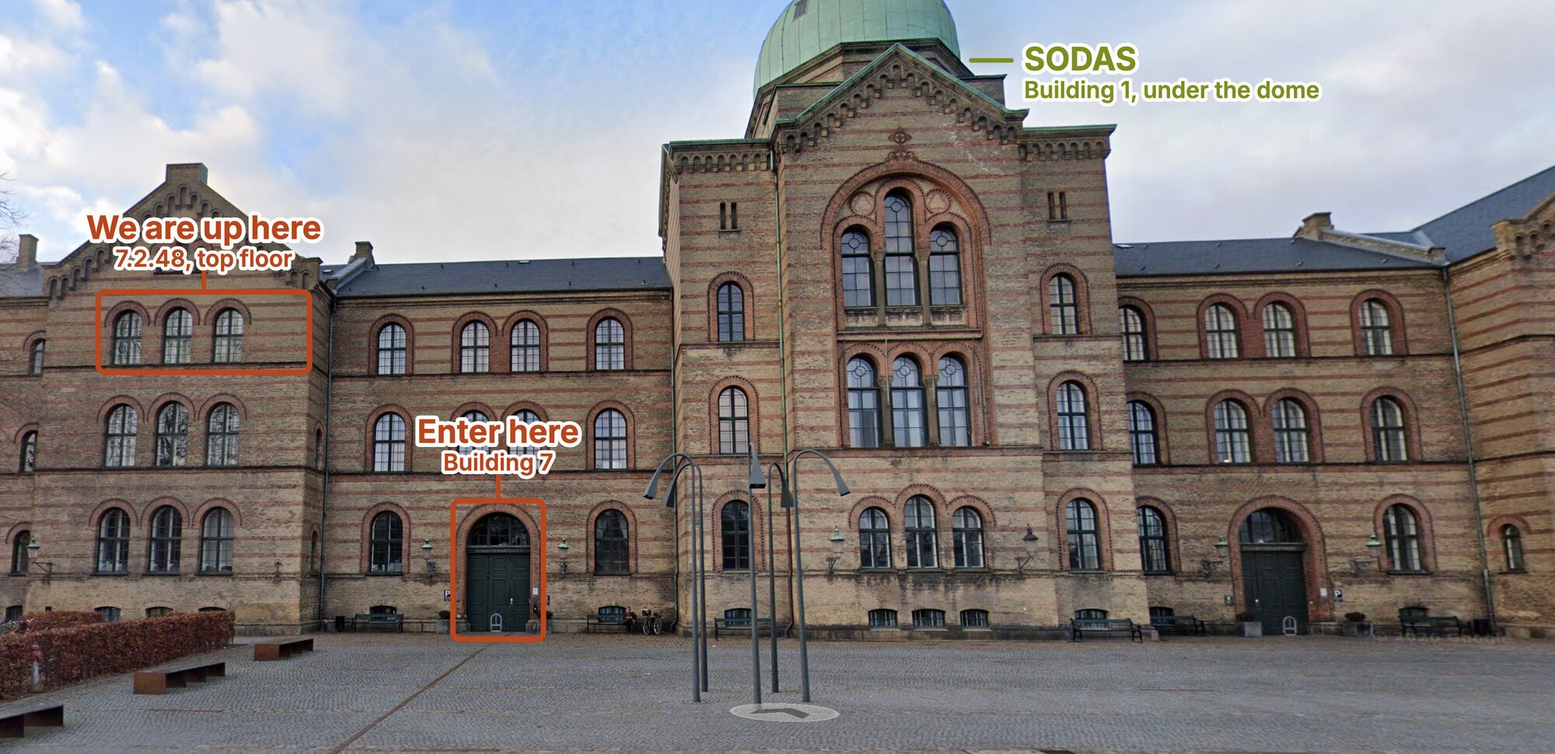
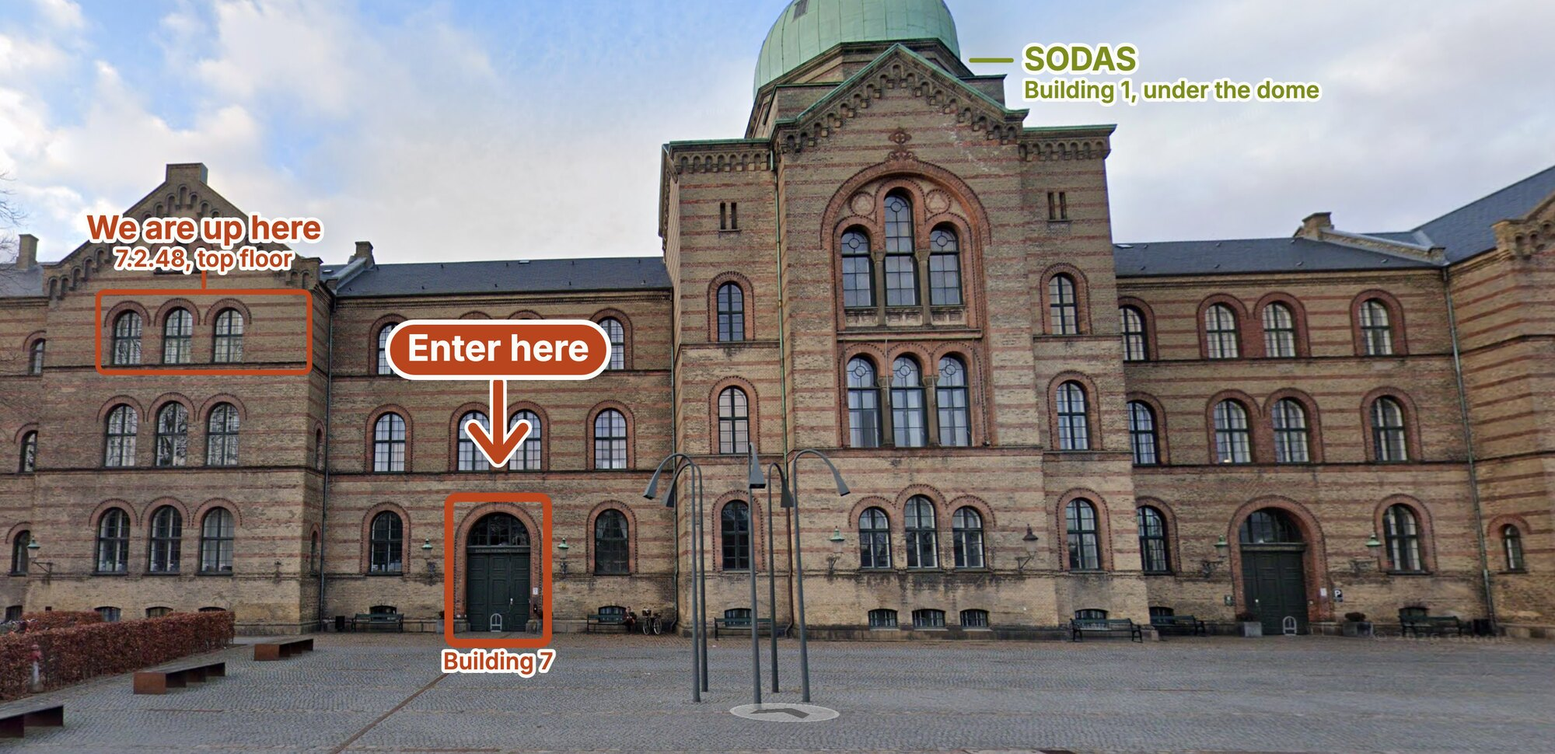
Directions: bolder Enter-here on the façade, KU walk ends at the door marker
Claude-Session: https://claude.ai/code/session_01Le2XxWqqiKb2BCk8oKe2QM

Changed region(s): [[0.248, 0.4021, 0.403, 0.8969]]

diff --git a/branding/build-directions-map.py b/branding/build-directions-map.py
@@ -362,8 +362,8 @@ def build_ku():
     norreport = frame.xy(55.68385, 12.57276)   # the S-train platforms under Nørre Voldgade; the metro is next door
     corner = frame.xy(55.68408, 12.57160)      # street level, Nørre Voldgade at Frederiksborggade
     gate = frame.xy(55.68693, 12.57100)        # the main gate, Øster Farimagsgade 5, straight out from the dome
-    door = frame.xy(55.68711, 12.57007)        # door in the Building 7 façade, facing the front garden
     dome = frame.xy(55.68722, 12.57052)        # Building 1, under the dome
+    door = dome                                # the Building 7 door is the one just left of the dome: same spot at this scale
     turn = frame.xy(55.68496, 12.56839)        # Frederiksborggade meets Nørre Farimagsgade
     goth = frame.xy(55.68613, 12.56976)        # Gothersgade crossing, where the street becomes Øster Farimagsgade
     # the footway graph is routed only as far as Gothersgade: beyond it OSM's pavement is disconnected and
@@ -371,7 +371,7 @@ def build_ku():
     # along Øster Farimagsgade to the gate are drawn by hand, as is the path through the front garden.
     walk = [norreport] + walk_route(ways, nodes, frame, corner, turn)
     walk += walk_route(ways, nodes, frame, turn, goth)[1:]
-    walk += [(gate[0], walk[-1][1]), gate, (gate[0] + 1, dome[1] - 10), (door[0] + 6, door[1] - 6), door]
+    walk += [(gate[0], walk[-1][1]), gate, (gate[0] + 1, dome[1] - 10), door]
     print(f"  walk {length(walk):.0f} m; nørreport {norreport[0]:.0f},{norreport[1]:.0f} door {door[0]:.0f},{door[1]:.0f} dome {dome[0]:.0f},{dome[1]:.0f}", file=sys.stderr)
     css = next((P(rdp([frame.xy(*p) for p in ll], 1.0)) + "Z" for t, _, ll in ways
                 if t.get("amenity") == "university" and "Sundhed og Samfund" in t.get("name", "")), None)
@@ -397,10 +397,9 @@ def build_ku():
     gx, gy = frame.xy(55.6868, 12.5735)   # Botanical Garden label
     body += [f'<circle class="stn" cx="{norreport[0]:.0f}" cy="{-norreport[1]:.0f}" r="9"/>',
              f'<text class="lbl-stop halo" x="{norreport[0]+16:.0f}" y="{-norreport[1]+7:.0f}">Nørreport <tspan class="sub">S-train and metro</tspan></text>',
-             f'<circle class="pin" cx="{door[0]:.0f}" cy="{-door[1]:.0f}" r="7"/>',
-             f'<text class="lbl-here halo" x="{door[0]-18:.0f}" y="{-door[1]-22:.0f}" text-anchor="end">Building 7 door</text>',
-             f'<text class="lbl-muted halo" x="{door[0]-18:.0f}" y="{-door[1]-2:.0f}" text-anchor="end">then up to 7.2.48</text>',
-             f'<circle class="stop" cx="{dome[0]:.0f}" cy="{-dome[1]:.0f}" r="6"/>',
+             f'<circle class="pin" cx="{door[0]:.0f}" cy="{-door[1]:.0f}" r="8"/>',
+             f'<text class="lbl-here halo" x="{door[0]-18:.0f}" y="{-door[1]-16:.0f}" text-anchor="end">Enter here</text>',
+             f'<text class="lbl-muted halo" x="{door[0]-18:.0f}" y="{-door[1]+4:.0f}" text-anchor="end">Building 7 door, then up to 7.2.48</text>',
              f'<text class="lbl-muted halo" x="{cv.X1-10}" y="{-dome[1]-56:.0f}" text-anchor="end">the dome: Building 1, SODAS</text>',
              f'<text class="lbl-area halo" x="{gx:.0f}" y="{-gy:.0f}" text-anchor="middle">Botanical Garden</text>',
              f'<text class="lbl-area halo" x="{dome[0]-130:.0f}" y="{-dome[1]-100:.0f}" text-anchor="middle">CSS (Kommunehospitalet)</text>',

diff --git a/src/content/pages/20140910_directions.md b/src/content/pages/20140910_directions.md
@@ -205,7 +205,7 @@ Nørreport is the nearest station, about ten minutes on foot. Leave the station 
 <g class="roads"><path class="rd rd-path" d="M2,225 L12,202 L25,180 L29,165 L27,144 L11,111 L16,96 L24,87 L34,83 L49,81 L72,89 L87,101 M-148,265 L-153,236 M215,38 L142,-8 L139,-15 L139,-25 L146,-29 L152,-30 L228,18 M189,-1 L192,5 L190,11 L185,15 L177,13 L173,6 L176,-0 L183,-3 L189,-1 M163,-58 L161,-49 L164,-37 L197,-17 L231,4 L232,1 L243,1 L249,-5 L257,0 M25,180 L14,175 L6,165 M-247,-258 L-253,-240 L-306,-225 M97,96 L95,89 L82,75 L78,60 L82,49 L89,44 L94,33 L97,27 L96,19 M39,-28 L64,-25 L92,-16 L105,-8 L109,6 M62,68 L70,48 L75,23 L92,-16 L122,-43 L138,-53 L164,-64 M-256,98 L-217,91 L-207,98 L-179,93 M92,49 L98,58 L104,54 L107,42 L94,33 M107,95 L111,86 L130,67 L149,31 L152,22 L153,-1 M82,75 L102,75 L118,61 L140,47 M162,5 L174,-15 M152,22 L173,12 M152,-30 L157,-62 M24,87 L41,98 L57,99 L81,109 M90,66 L94,68 L104,65 L111,57 L113,43 M17,124 L34,111 L43,108 L53,112 L57,110 L69,85 L82,75 M-22,37 L-16,35 L-2,39 L4,43 L11,56 L14,64 L11,78 L8,85 L-0,91 L-6,91 L-19,85 L-29,71 L-32,59 L-31,51 L-22,37 M76,-22 L74,-54 L62,-54 M-31,64 L8,49 M113,4 L123,15 L123,19 L120,22 M107,42 L118,43 L126,39 L134,34 L153,13 M121,11 L127,18 L132,36 M93,35 L88,34 L83,40 L82,42 L86,46 M-189,132 L-176,130 L-169,168 L-164,167 M-54,6 L-68,-33 L-68,-36 L-54,-41 L-49,-48 L-42,-50 L-39,-49 L-32,-43 M26,-57 L-32,-52 L-36,-47 M-261,133 L-211,123 M-211,123 L-176,116 M-183,71 L-219,78 M-219,78 L-269,87 M-158,209 L-162,189 M-16,35 L1,24 L39,15 L52,16 L79,24 L96,19 L109,6 L120,1 L133,-2 L142,-8 M-2,91 L-22,37 M-133,235 L-122,235 L-116,233 L-122,231 L-133,233 M-157,205 L-153,236 M-153,236 L-160,205 M-197,244 L-170,245 M114,-58 L118,-59 L132,-49 M113,-67 L116,-67 L117,-51 L99,-49 L101,-25 M-15,-71 L-12,-35 M-83,-6 L-59,-14 M-240,273 L-284,270 M-216,55 L-204,122 L-206,135 M6,165 L-11,123 M-6,135 L19,127 M-247,142 L-252,118 M-255,96 L-260,73 M-255,96 L-252,118 M-219,137 L-223,113 M-227,91 L-231,68 M-227,91 L-223,113 M-252,116 L-213,109 L-207,98 M-307,-244 L-298,-239 L-259,-248 M-300,-222 L-301,-243 M-276,109 L-254,107 M-307,-6 L-265,220 M-280,240 L-295,263 M-289,287 L-273,272 M-292,-10 L-251,218 M-297,-226 L-253,-239 M-256,-246 L-304,-236 M-230,-283 L-200,-290 M-232,231 L-232,241 L-219,264 L-218,275 M-297,-102 L-297,-226 M-296,-35 L-297,-94 M288,193 L10,212 L8,211 L4,208 L-89,-46 L-88,-48 L-35,-58 L193,-80 L207,-89 L254,-94 M-226,-256 L-189,-265 M-180,-270 L-158,-282 M-88,-47 L-68,-33 M120,22 L121,27 L112,39 M110,-29 L117,-23 L123,-7 M110,-29 L106,-21 L108,-8 L116,-3 L123,-7 M123,-7 L116,-12 L114,-16 L121,-25 L124,-33 M110,-29 L128,-35 L134,-33 L139,-35 L140,-42 L129,-48 L128,-35 M152,-60 L149,-46 L140,-42 M130,-20 L129,-10 L142,-8 M-25,40 L-6,91 M-27,42 L-9,90 M-29,46 L-13,88 M-31,51 L-17,86 M-18,36 L2,90 M-15,35 L4,88 M-12,36 L7,86 M-9,36 L9,83 M-4,38 L11,79 M12,75 L-0,40 M108,31 L105,27 L109,6 M45,-137 L-31,-129 M-12,-143 L-14,-167 M36,-160 L33,-167 L27,-170 L-14,-167 M36,-160 L34,-151 L27,-147 L-12,-143 M19,-186 L41,-186 L46,-179 L48,-165 M19,-186 L0,-184 L-9,-179 L-33,-176 L-35,-163 M49,-157 L50,-139 L45,-137 M45,-137 L43,-160 M89,-64 L113,-67 M-32,-212 L-45,-209 L-53,-216 L-54,-254 M-44,-194 L-42,-173 M-71,-276 L-74,-282 L-65,-288 L-55,-286 L-53,-283 L-55,-278 M34,-286 L6,-282 L-2,-283 L-5,-281 L-16,-282 L-27,-279 L-38,-280 L-61,-275 L-71,-276 M18,-211 L-19,-207 M7,-243 L9,-215 M10,-216 L-32,-211 M184,18 L189,39 L187,51 L176,71 L166,82 L145,92 L97,96 L91,98 M165,173 L139,173 L104,166 L99,158 L73,148 M210,49 L222,45 L239,34 L256,31 L264,34 L268,39 L269,50 L265,56 L248,68 L244,73 L227,80 L220,89 L206,122 L188,156 L165,173 L144,185 L110,193 L75,193 M205,4 L193,24 M286,106 L274,103 L244,127 L216,165 L208,171 L185,176 L168,172 M208,56 L188,78 L185,93 L179,105 L147,127 L136,127 L133,123 L130,104 L124,94 M234,287 L229,288 L221,262 L248,268 L251,304 L247,305 L248,317 L253,317 L254,336 M239,337 L254,336 M47,185 L55,196 L67,197 L75,193 M263,335 L239,337 L234,287 L250,286 M266,269 L268,222 L265,205 M246,79 L260,103 L260,109 M260,109 L256,131 L257,137 L278,159 M251,66 L274,67 M19,228 L55,239 L220,220 L267,210 M-12,226 L-5,245 L-10,258 M261,142 L263,133 L267,128 L271,125 L277,127 M235,279 L235,274 L240,274 L240,280 L235,279 M8,243 L27,239 L26,234 L21,235 L19,228 M250,286 L252,284 L272,284 L277,327 L269,334 L263,335 M266,265 L231,258 M282,94 L255,94 M75,193 L25,180 M244,73 L264,71 L278,75 M287,17 L256,4 L241,9 L229,16 M229,16 L215,38 L208,56 M91,98 L87,101 L78,116 L74,130 L72,162 L68,170 L55,187 M27,239 L31,248 L268,220 M169,-188 L173,-193 L189,-191 M187,-158 L176,-157 L175,-159 L180,-170 L179,-178 L173,-186 L165,-190 L151,-187 L145,-179 L143,-170 M154,-171 L157,-165 L162,-164 L168,-166 L170,-172 L167,-177 L162,-180 L156,-177 L154,-171 M154,-171 L129,-169 M204,-204 L196,-191 L189,-191 L185,-174 L188,-148 M181,-277 L186,-231 L192,-226 L224,-229 M175,-200 L134,-196 M220,-219 L220,-212 L234,-213 M220,-212 L207,-211 L204,-204 M216,-269 L220,-228 M223,-204 L226,-169 M-2,-283 L-7,-289 L22,-288 L19,-284 M-38,-280 L-42,-285 L-39,-289 L-16,-289 L-14,-284 L-16,-282 M213,-250 L194,-248 L194,-253 L184,-252 M153,-256 L156,-226"/><path class="rd rd-minor" d="M-264,233 L-282,266 M-187,49 L-70,28 M-269,158 L-246,151 L-177,138 M-304,-96 L-306,-225 M-187,49 L-279,67 L-286,66 M-172,228 L-170,245 L-152,249 L-138,237 L-139,230 M-86,-286 L-88,-138 M-304,-96 L-216,-113 M-287,60 L-301,-17 M-304,-96 L-303,-26 M-88,-138 L-129,-131 M-287,60 L-269,163 M-39,114 L-165,136 M210,-92 L207,-120 L202,-124 L113,-115 M-228,276 L-38,261 L13,254 M-286,66 L-298,68 M-284,270 L-309,310 M117,-83 L113,-115 L83,-110 L75,-112 M75,-112 L-19,-104 L-24,-97 L-24,-70 M-289,278 L-237,298 M-249,327 L-237,298 M-87,-251 L36,-262 M-88,-138 L-65,-133 L-32,-136 M-303,272 L-284,270 M-237,298 L-228,276 M75,-112 L78,-79 M75,-112 L75,-118 M75,-118 L73,-132 M109,-121 L113,-115 M108,-135 L109,-121 M73,-132 L68,-194 M-33,131 L-8,122 M-282,266 L-297,267 M-49,-134 L-52,-161 L-41,-163 L-35,-163 L-32,-136 M23,-74 L26,-54 L21,-48 L-32,-43 M-142,316 L-150,270 M-170,154 L-166,153 L-166,151 L-170,152 L-170,154 M-168,167 L-164,166 L-164,164 L-168,165 L-168,167 M-228,276 L-240,273 L-243,269 L-246,239 M-152,249 L-150,270 M-177,138 L-165,136 M-216,-113 L-129,-131 M-307,-95 L-304,-96 M-306,-225 L-307,-244 M-269,163 L-259,220 L-264,233 M-305,-188 L-303,-188 M-303,-188 L-295,-188 M-290,31 L-283,30 M-293,32 L-290,31 M-305,-213 L-303,-213 M-303,-213 L-296,-213 M-282,161 L-269,158 M-308,-236 L-308,-223 M-304,-228 L-304,-237 L-255,-247 L-253,-245 L-253,-242 L-287,-231 L-288,-237 L-291,-236 L-289,-231 L-304,-228 M-282,266 L-284,270 M-301,-17 L-303,-26 M-209,-290 L-209,-286 L-228,-282 L-234,-281 L-236,-284 M72,-144 L106,-148 M-32,-212 L-36,-255 M39,-245 L14,-242 L18,-211 M-32,-136 L-30,-118 M-30,-118 L-71,-114 M-49,-98 L-48,-87 L-65,-85 M-30,-118 L-30,-110 L-36,-102 L-49,-98 L-63,-99 M-38,261 L-30,332 M-61,336 L39,325 M260,176 L267,179 L271,176 L273,172 L271,167 L267,164 L261,166 L259,170 L260,176 M71,315 L51,324 M71,315 L188,285 L193,264 L61,279 L72,308 L71,315 M13,328 L14,333 M260,176 L186,198 L186,210 M51,324 L39,325 M268,-97 L249,-284 M118,-287 L120,-251 M120,-251 L39,-245 M120,-272 L249,-284 M170,-276 L174,-228 L123,-223 L120,-251 M60,-245 L62,-220 L66,-214 L100,-218 L100,-212 M102,-197 L108,-135 M100,-212 L102,-197 M67,-209 L66,-214 M68,-194 L67,-209 M100,-218 L102,-223 L99,-249 M77,-267 L77,-264 M77,-264 L79,-251 M79,-251 L79,-247 M77,-267 L55,-265 L53,-285 M257,-209 L204,-204 M265,-123 L255,-122 L252,-118 L243,-116 M36,-262 L34,-287 M36,-262 L39,-245 M-286,159 L-273,157 L-289,68 L-292,69 M-159,210 L-158,208 L-159,210 M-162,206 L-160,214 L-155,213 L-155,204 L-162,206 M-162,198 L-159,197 L-161,186 L-164,186 L-162,198 M-166,181 L-160,180 L-162,169 L-168,170 L-166,181 M-167,187 L-164,207 L-154,206 L-161,166 L-171,168 L-167,187 M-138,300 L-142,300 L-144,289 L-139,288 L-138,300 M-153,277 L-156,274 L-137,273 L-140,276 L-133,337 M-270,-238 L-271,-241 L-269,-242 L-268,-238 L-270,-238 M-281,-235 L-281,-239 L-281,-235 M-291,-230 L-291,-237 L-291,-230 M-304,-228 L-304,-237 L-255,-247 L-253,-245 L-253,-242 L-287,-231 L-288,-237 L-291,-236 L-289,-231 L-304,-228"/><path class="rd rd-major" d="M-180,-270 L-165,-230 M-173,-290 L-175,-289 M-232,-224 L-237,-261 M-249,-269 L-247,-258 M-239,-271 L-241,-281 M-253,-285 L-249,-269 M-294,-247 L-247,-258 M-176,109 L-177,138 L-161,228 M-216,-113 L-210,-76 M-159,-50 L-200,-43 M-130,229 L-150,229 M-150,229 L-165,136 M268,-97 L-53,-67 M-129,-131 L-103,-62 M-237,-261 L-239,-271 M-249,-269 L-300,-254 M-237,-261 L-182,-276 M-206,-32 L-196,0 M-100,-54 L2,225 M-208,-42 L-303,-26 M-246,-251 L-233,-208 M-186,-286 L-239,-271 M-247,-258 L-237,-261 M-187,49 L-176,109 M-264,233 L-161,228 M-264,233 L-276,229 M-161,228 L-150,229 M-165,-230 L-129,-131 M-165,136 L-176,109 M-233,-208 L-216,-113 M-28,226 L-87,228 M-87,228 L-130,229 M-182,-276 L-186,-286 M-269,-21 L-206,-32 M-53,-67 L-90,-65 L-103,-62 M-100,-54 L-53,-67 M-140,-46 L-100,-54 M-208,-42 L-206,-32 M-182,-276 L-158,-282 M-247,-258 L-246,-251 M-304,240 L-264,233 M-198,-34 L-140,-46 M-103,-62 L-100,-54 M-103,-62 L-159,-50 M-301,-17 L-269,-21 M-200,-43 L-208,-42 M-200,-43 L-210,-76 M-198,-34 L-200,-43 M-206,-32 L-198,-34 M-196,0 L-195,-20 L-198,-34 M-196,0 L-187,49 M-210,-76 L-211,-55 L-208,-42 M-182,-276 L-180,-270 M-233,-208 L-232,-224 M-239,-271 L-249,-269 M-175,-289 L-186,-286 M19,228 L46,222 L93,222 M265,205 L18,218 L11,219 L2,225 M13,254 L39,325 M2,225 L13,254 M93,222 L267,210 M2,225 L19,228 M2,225 L-28,226"/><path class="rd rd-mw" d=""/></g>
 <path class="rail" d=""/>
 <path class="bld" fill-rule="evenodd" d="M-3,135 L7,163 L26,156 L16,129 L-3,135Z M-9,-24 L-9,-22 L34,-26 L33,-40 L-10,-36 L-9,-24Z M-117,-125 L-109,-105 L-98,-109 L-104,-125 L-99,-126 L-100,-128 L-117,-125Z M-83,-131 L-94,-129 L-92,-123 L-94,-123 L-93,-122 L-92,-122 L-91,-117 L-101,-116 L-98,-109 L-97,-102 L-98,-101 L-97,-101 L-95,-93 L-97,-92 L-95,-92 L-94,-85 L-96,-83 L-94,-78 L-72,-82 L-73,-83 L-74,-83 L-75,-87 L-74,-88 L-75,-88 L-76,-96 L-75,-96 L-77,-97 L-78,-104 L-77,-104 L-78,-105 L-79,-113 L-78,-113 L-79,-113 L-80,-116 L-79,-117 L-80,-117 L-81,-124 L-80,-124 L-80,-126 L-82,-126 L-83,-131Z M-67,-213 L-56,-213 L-56,-243 L-67,-243 L-67,-213Z M-44,-81 L-25,-83 L-26,-95 L-45,-93 L-44,-81Z M153,-27 L144,-12 L156,-5 L165,-19 L153,-27Z M-198,61 L-207,62 L-205,72 L-196,70 L-198,61Z M-118,282 L-120,272 L-84,269 L-83,283 L-89,283 L-89,280 L-118,282Z M-136,303 L-138,278 L-135,274 L-120,272 L-118,284 L-122,284 L-124,286 L-126,285 L-128,287 L-127,296 L-126,298 L-117,297 L-118,295 L-117,295 L-116,301 L-136,303Z M-313,-50 L-313,-71 L-323,-70 L-322,-50 L-313,-50Z M-313,-71 L-313,-84 L-315,-85 L-344,-79 L-343,-70 L-326,-74 L-326,-74 L-323,-75 L-323,-70 L-313,-71Z M-330,-27 L-315,-31 L-313,-33 L-313,-50 L-322,-50 L-322,-39 L-323,-38 L-332,-36 L-330,-27Z M-348,-181 L-349,-185 L-332,-189 L-331,-188 L-329,-188 L-328,-187 L-326,-188 L-326,-190 L-328,-190 L-329,-192 L-328,-194 L-326,-194 L-326,-218 L-328,-216 L-330,-217 L-329,-220 L-339,-216 L-343,-227 L-325,-233 L-314,-226 L-314,-104 L-316,-101 L-333,-98 L-338,-121 L-332,-121 L-331,-111 L-327,-111 L-325,-113 L-325,-126 L-327,-127 L-327,-129 L-325,-130 L-325,-132 L-337,-133 L-337,-143 L-326,-143 L-325,-154 L-341,-153 L-342,-163 L-326,-164 L-325,-177 L-347,-174 L-348,-181Z M-350,4 L-330,-1 L-327,9 L-334,11 L-332,16 L-341,20 L-342,13 L-343,13 L-347,15 L-350,4Z M-320,16 L-305,13 L-301,36 L-316,39 L-317,34 L-312,33 L-312,31 L-314,31 L-314,29 L-312,28 L-313,24 L-315,24 L-315,23 L-314,22 L-314,19 L-319,20 L-320,16Z M-330,-1 L-310,-7 L-308,-5 L-305,13 L-314,15 L-315,4 L-316,3 L-318,4 L-328,7 L-330,-1Z M-301,36 L-297,59 L-298,61 L-324,66 L-328,44 L-322,43 L-321,54 L-318,53 L-309,52 L-311,38 L-301,36Z M-221,66 L-217,90 L-267,99 L-272,75 L-221,66Z M-259,144 L-209,135 L-213,111 L-263,120 L-259,144Z M-204,110 L-202,119 L-193,118 L-195,108 L-204,110Z M-190,124 L-193,125 L-192,129 L-190,129 L-190,124Z M-150,-162 L-160,-190 L-170,-186 L-167,-177 L-177,-173 L-175,-167 L-171,-168 L-170,-166 L-164,-169 L-160,-158 L-150,-162Z M-219,-198 L-215,-175 L-187,-181 L-188,-186 L-203,-184 L-204,-182 L-205,-183 L-206,-187 L-204,-188 L-201,-188 L-202,-190 L-204,-190 L-206,-190 L-207,-194 L-206,-196 L-205,-194 L-192,-197 L-192,-198 L-189,-199 L-190,-202 L-219,-198Z M-164,-132 L-143,-136 L-142,-138 L-150,-162 L-160,-158 L-154,-145 L-154,-143 L-156,-143 L-157,-144 L-165,-142 L-164,-132Z M-211,-154 L-206,-126 L-203,-124 L-179,-129 L-183,-148 L-188,-147 L-187,-140 L-185,-139 L-186,-138 L-195,-136 L-196,-135 L-197,-136 L-200,-152 L-199,-153 L-197,-152 L-188,-153 L-189,-159 L-211,-154Z M-199,-215 L-209,-212 L-210,-214 L-221,-211 L-227,-243 L-183,-254 L-173,-225 L-194,-219 L-195,-224 L-186,-226 L-190,-238 L-192,-240 L-201,-238 L-199,-233 L-200,-232 L-209,-231 L-210,-235 L-213,-234 L-214,-233 L-211,-219 L-202,-222 L-199,-215Z M-221,-211 L-218,-198 L-190,-202 L-192,-208 L-207,-206 L-209,-207 L-208,-210 L-210,-211 L-210,-214 L-221,-211Z M-160,-190 L-166,-206 L-176,-203 L-174,-197 L-176,-196 L-175,-191 L-172,-191 L-170,-186 L-160,-190Z M-166,-206 L-173,-225 L-184,-222 L-180,-208 L-178,-209 L-176,-203 L-166,-206Z M-179,-129 L-164,-132 L-165,-140 L-170,-141 L-170,-139 L-176,-138 L-178,-147 L-178,-148 L-167,-150 L-168,-158 L-173,-157 L-178,-158 L-181,-155 L-184,-155 L-179,-129Z M-121,-140 L-98,-145 L-97,-147 L-97,-163 L-105,-163 L-105,-154 L-106,-153 L-116,-151 L-120,-160 L-128,-156 L-123,-142 L-121,-140Z M-157,-234 L-167,-263 L-161,-274 L-124,-280 L-120,-240 L-127,-239 L-128,-268 L-129,-268 L-130,-266 L-133,-265 L-134,-267 L-152,-264 L-152,-262 L-154,-260 L-146,-238 L-157,-234Z M-124,-280 L-97,-284 L-96,-281 L-96,-264 L-107,-264 L-107,-271 L-108,-272 L-117,-271 L-117,-259 L-119,-256 L-121,-256 L-124,-280Z M-150,-215 L-157,-234 L-146,-238 L-144,-233 L-130,-235 L-128,-234 L-128,-239 L-119,-240 L-116,-220 L-125,-220 L-126,-226 L-141,-224 L-139,-219 L-150,-215Z M-96,-227 L-96,-217 L-106,-217 L-106,-219 L-107,-221 L-106,-227 L-96,-227Z M-97,-180 L-97,-163 L-105,-163 L-107,-168 L-106,-180 L-97,-180Z M-96,-247 L-96,-237 L-106,-237 L-106,-239 L-107,-241 L-106,-247 L-96,-247Z M-96,-237 L-96,-227 L-106,-227 L-107,-233 L-106,-234 L-106,-237 L-96,-237Z M-128,-156 L-134,-172 L-125,-177 L-118,-160 L-128,-156Z M-96,-197 L-97,-180 L-106,-180 L-106,-185 L-117,-184 L-118,-193 L-109,-193 L-109,-191 L-107,-192 L-106,-192 L-106,-197 L-96,-197Z M-96,-217 L-96,-197 L-106,-197 L-106,-202 L-110,-203 L-110,-210 L-106,-211 L-106,-217 L-96,-217Z M-96,-264 L-96,-247 L-105,-247 L-104,-253 L-108,-250 L-113,-250 L-113,-259 L-104,-258 L-105,-264 L-96,-264Z M-134,-172 L-140,-189 L-130,-193 L-128,-187 L-122,-189 L-120,-183 L-126,-181 L-125,-177 L-134,-172Z M-140,-189 L-150,-215 L-139,-219 L-136,-209 L-121,-214 L-117,-204 L-132,-199 L-130,-193 L-140,-189Z M-166,-58 L-184,-55 L-194,-62 L-196,-72 L-185,-73 L-184,-68 L-181,-66 L-173,-67 L-173,-68 L-175,-77 L-170,-77 L-166,-58Z M-198,-84 L-202,-107 L-201,-108 L-177,-113 L-174,-95 L-178,-95 L-180,-103 L-190,-101 L-191,-100 L-189,-91 L-181,-92 L-180,-88 L-198,-84Z M-176,-111 L-172,-112 L-172,-114 L-160,-116 L-160,-115 L-155,-116 L-154,-110 L-159,-109 L-155,-92 L-167,-90 L-168,-93 L-169,-92 L-171,-107 L-176,-106 L-176,-111Z M-196,-72 L-198,-84 L-177,-88 L-176,-83 L-186,-82 L-187,-81 L-185,-73 L-196,-72Z M-129,-104 L-124,-92 L-136,-88 L-139,-95 L-137,-95 L-137,-97 L-143,-94 L-144,-99 L-129,-104Z M-124,-92 L-117,-70 L-118,-67 L-145,-62 L-148,-73 L-132,-76 L-131,-75 L-130,-76 L-132,-78 L-135,-88 L-124,-92Z M-145,-62 L-166,-58 L-169,-69 L-164,-69 L-163,-68 L-162,-70 L-165,-79 L-166,-79 L-166,-81 L-165,-82 L-166,-90 L-157,-92 L-156,-83 L-154,-84 L-154,-81 L-155,-81 L-154,-71 L-153,-70 L-152,-72 L-148,-72 L-145,-62Z M-156,-117 L-137,-121 L-135,-120 L-129,-104 L-138,-101 L-142,-110 L-143,-111 L-144,-110 L-154,-108 L-156,-117Z M-253,348 L-246,352 L-237,345 L-244,338 L-246,337 L-248,338 L-253,348Z M-258,359 L-254,351 L-245,356 L-249,363 L-258,359Z M-263,368 L-258,359 L-249,363 L-253,373 L-263,368Z M-226,360 L-219,370 L-229,377 L-231,374 L-229,373 L-234,366 L-226,360Z M-237,345 L-226,360 L-235,366 L-240,360 L-242,361 L-245,356 L-243,354 L-246,351 L-237,345Z M-252,313 L-260,310 L-263,315 L-256,318 L-259,321 L-258,323 L-260,326 L-268,321 L-271,324 L-254,334 L-246,316 L-252,313Z M-258,342 L-265,355 L-273,350 L-267,338 L-258,342Z M-265,355 L-270,364 L-278,358 L-273,350 L-265,355Z M-254,334 L-258,342 L-271,336 L-266,327 L-254,334Z M-258,297 L-248,301 L-252,310 L-262,306 L-258,297Z M-291,328 L-273,341 L-278,348 L-281,346 L-281,344 L-296,334 L-291,328Z M-278,348 L-284,358 L-293,352 L-290,348 L-285,351 L-281,346 L-278,348Z M-248,301 L-242,303 L-242,305 L-246,316 L-252,313 L-248,301Z M-317,331 L-308,320 L-291,328 L-296,334 L-303,329 L-309,337 L-317,331Z M-308,320 L-299,306 L-291,311 L-293,315 L-292,315 L-299,324 L-308,320Z M-299,306 L-286,287 L-258,297 L-263,309 L-280,303 L-287,313 L-299,306Z M-305,293 L-299,280 L-301,278 L-324,282 L-316,285 L-311,284 L-312,288 L-305,293Z M-81,-256 L32,-267 L31,-273 L33,-273 L33,-278 L31,-278 L30,-283 L22,-283 L22,-277 L10,-276 L10,-280 L-10,-278 L-10,-274 L-18,-273 L-18,-279 L-35,-278 L-35,-271 L-42,-271 L-42,-275 L-62,-273 L-62,-269 L-72,-268 L-73,-274 L-81,-273 L-81,-256Z M-28,-213 L-24,-214 L-24,-212 L5,-220 L4,-234 L6,-234 L4,-254 L-32,-250 L-28,-213Z M-317,151 L-316,154 L-310,153 L-310,150 L-317,151Z M-328,86 L-328,89 L-322,88 L-322,85 L-328,86Z M-24,-200 L-24,-196 L-46,-194 L-46,-198 L-24,-200Z M-20,-108 L-15,-109 L-16,-112 L-20,-111 L-27,-106 L-29,-101 L-30,-95 L-27,-95 L-26,-101 L-20,-108Z M-59,-170 L-43,-171 L-47,-207 L-59,-206 L-57,-178 L-60,-178 L-59,-170Z M-75,-141 L-57,-143 L-60,-178 L-78,-176 L-75,-141Z M-52,-92 L-52,-97 L-63,-96 L-63,-98 L-67,-98 L-68,-96 L-69,-106 L-74,-105 L-73,-91 L-52,-92Z M-286,243 L-308,249 L-310,251 L-309,255 L-307,257 L-296,258 L-292,257 L-289,255 L-284,246 L-284,244 L-286,243Z M-254,242 L-262,255 L-260,258 L-247,258 L-243,254 L-244,243 L-247,241 L-254,242Z M190,-31 L191,-27 L196,-20 L203,-16 L212,-17 L230,-6 L230,-7 L235,-3 L241,-2 L246,-5 L248,-7 L248,-10 L247,-16 L242,-20 L239,-20 L239,-21 L221,-32 L220,-36 L216,-43 L211,-46 L208,-47 L200,-46 L183,-57 L182,-56 L180,-58 L175,-61 L170,-61 L165,-57 L164,-52 L164,-49 L168,-44 L174,-43 L173,-41 L190,-31Z M166,-18 L172,-15 L163,-0 L157,-4 L166,-18Z M113,-63 L114,-54 L90,-51 L89,-62 L113,-63Z M-227,236 L-190,235 L-186,237 L-185,240 L-195,264 L-197,266 L-199,267 L-204,267 L-223,255 L-229,239 L-227,236Z M156,-32 L158,-36 L190,-16 L188,-12 L156,-32Z M-159,210 L-157,210 L-158,208 L-159,208 L-159,210Z M-136,241 L-132,245 L-128,245 L-124,243 L-123,240 L-127,237 L-130,236 L-135,239 L-136,241Z M-206,263 L-203,263 L-199,259 L-200,254 L-202,252 L-205,251 L-208,252 L-210,255 L-210,258 L-209,261 L-206,263Z M-220,249 L-216,251 L-215,250 L-213,247 L-214,244 L-217,243 L-220,245 L-220,249Z M-181,254 L-181,252 L-178,252 L-178,254 L-181,254Z M-163,235 L-159,235 L-160,233 L-163,233 L-163,235Z M-161,238 L-149,237 L-149,233 L-159,234 L-159,235 L-161,235 L-161,238Z M-58,233 L-58,229 L-51,229 L-50,232 L-58,233Z M-260,242 L-260,243 L-267,244 L-267,242 L-260,242Z M-224,242 L-224,239 L-221,238 L-221,242 L-224,242Z M-52,-102 L-53,-108 L-46,-109 L-45,-102 L-52,-102Z M-51,-166 L-51,-170 L-49,-170 L-48,-166 L-51,-166Z M-147,-90 L-145,-78 L-147,-78 L-149,-89 L-147,-90Z M-28,-193 L-31,-193 L-32,-195 L-28,-196 L-28,-193Z M44,-43 L61,-45 L61,-39 L45,-37 L44,-43Z M-26,-3 L-31,-1 L-32,-4 L-27,-6 L-26,-3Z M-71,-43 L-67,-39 L-69,-36 L-74,-40 L-71,-43Z M-23,-7 L-26,-15 L-22,-17 L-19,-9 L-23,-7Z M-209,64 L-208,64 L-207,67 L-212,68 L-213,62 L-210,61 L-209,64Z M-333,-61 L-332,-56 L-336,-55 L-337,-57 L-335,-58 L-336,-63 L-327,-68 L-326,-67 L-333,-61Z M-138,-247 L-139,-256 L-135,-257 L-135,-248 L-138,-247Z M-144,-246 L-146,-255 L-139,-256 L-138,-247 L-144,-246Z M-194,-216 L-192,-209 L-196,-208 L-199,-218 L-194,-219 L-194,-216Z M-10,-35 L-24,-33 L-35,-29 L-31,-19 L-21,-22 L-9,-24 L-10,-35Z M-62,-33 L-50,-37 L-46,-25 L-35,-29 L-31,-18 L-42,-15 L-38,-3 L-49,1 L-62,-33Z M-5,-7 L1,9 L-42,25 L-48,9 L-5,-7Z M-177,300 L-178,295 L-176,295 L-176,300 L-177,300Z M-181,298 L-180,297 L-179,300 L-181,300 L-181,298Z M-245,281 L-244,281 L-243,283 L-246,283 L-245,281Z M192,-17 L187,-9 L194,-5 L199,-12 L192,-17Z M-126,10 L-127,6 L-121,5 L-120,8 L-126,10Z M-83,96 L-83,97 L-80,97 L-79,102 L-85,104 L-86,96 L-83,96Z M-91,83 L-92,79 L-90,78 L-88,81 L-91,83Z M-156,67 L-153,67 L-153,71 L-155,72 L-156,67Z M-118,196 L-118,193 L-115,193 L-114,196 L-118,196Z M-275,-60 L-274,-54 L-269,-55 L-269,-53 L-276,-52 L-278,-60 L-275,-60Z M-263,-71 L-263,-69 L-265,-69 L-265,-70 L-263,-71Z M-219,31 L-216,30 L-215,33 L-219,34 L-219,31Z M-221,31 L-220,34 L-224,34 L-224,31 L-221,31Z M-120,-240 L-121,-247 L-112,-247 L-112,-242 L-110,-242 L-110,-240 L-120,-240Z M-187,-147 L-189,-159 L-185,-159 L-183,-148 L-187,-147Z M135,-45 L138,-43 L139,-39 L137,-36 L133,-35 L129,-38 L130,-43 L129,-44 L131,-46 L132,-45 L135,-45Z M-260,112 L-260,115 L-262,116 L-263,113 L-260,112Z M-256,111 L-255,114 L-258,115 L-258,112 L-256,111Z M-262,101 L-261,105 L-264,105 L-265,102 L-262,101Z M-257,101 L-257,104 L-259,104 L-260,101 L-257,101Z M-136,303 L-113,301 L-112,308 L-114,308 L-115,307 L-122,307 L-124,309 L-123,313 L-134,314 L-136,303Z M-111,288 L-111,286 L-107,286 L-107,287 L-111,288Z M-116,297 L-117,289 L-115,288 L-114,297 L-116,297Z M-116,301 L-116,297 L-114,297 L-115,288 L-84,285 L-83,292 L-82,292 L-81,295 L-84,295 L-83,298 L-116,301Z M266,311 L267,318 L272,318 L272,324 L268,325 L268,332 L260,334 L258,333 L256,314 L249,315 L249,308 L252,308 L252,305 L255,305 L254,288 L264,287 L264,292 L267,291 L267,294 L269,293 L270,300 L265,300 L266,309 L271,307 L272,310 L269,312 L266,311Z M253,224 L254,230 L245,231 L246,235 L223,237 L225,251 L214,253 L212,238 L27,259 L26,250 L253,224Z M297,147 L294,150 L295,152 L294,153 L298,157 L301,154 L311,164 L308,167 L308,168 L300,174 L290,164 L293,162 L289,158 L288,159 L287,158 L283,161 L278,156 L282,153 L280,151 L281,150 L277,146 L275,149 L265,139 L268,136 L267,135 L275,128 L285,139 L282,141 L286,145 L288,144 L289,145 L292,142 L295,141 L297,144 L297,147Z M258,145 L255,149 L253,148 L251,151 L247,147 L253,140 L254,141 L255,140 L258,143 L257,144 L258,145Z M14,343 L22,367 L6,372 L-1,348 L14,343Z M11,177 L19,180 L13,194 L4,191 L5,188 L4,188 L6,183 L8,184 L11,177Z M206,6 L197,21 L202,24 L211,10 L206,6Z M213,11 L204,25 L216,33 L225,19 L213,11Z M-51,307 L-51,297 L-39,296 L-38,306 L-46,307 L-46,299 L-48,299 L-48,307 L-51,307Z M-90,332 L-92,321 L-85,320 L-84,319 L-85,318 L-87,305 L-94,305 L-94,299 L-82,298 L-79,319 L-78,319 L-78,320 L-79,320 L-78,331 L-90,332Z M-46,285 L-47,275 L-51,276 L-52,266 L-44,266 L-42,267 L-40,284 L-46,285Z M-58,284 L-59,267 L-52,266 L-51,276 L-54,277 L-53,284 L-58,284Z M-121,335 L-122,328 L-119,328 L-119,325 L-111,325 L-111,322 L-108,322 L-109,308 L-112,308 L-113,301 L-97,299 L-97,302 L-94,302 L-94,306 L-96,307 L-94,321 L-92,321 L-90,332 L-121,335Z M-134,321 L-123,320 L-121,335 L-132,337 L-134,321Z M-63,329 L-67,298 L-51,297 L-50,313 L-52,312 L-55,304 L-60,304 L-59,316 L-59,317 L-58,318 L-54,318 L-54,319 L-46,318 L-45,317 L-45,313 L-37,312 L-35,326 L-63,329Z M-32,365 L-34,358 L-29,356 L-30,352 L-21,348 L-16,364 L-25,367 L-27,363 L-32,365Z M-58,347 L-53,341 L-25,338 L-24,339 L-21,348 L-29,351 L-30,348 L-51,350 L-58,347Z M-66,358 L-58,347 L-50,351 L-56,359 L-45,368 L-50,370 L-66,358Z M272,222 L272,234 L291,234 L291,222 L272,222Z M-103,355 L-103,347 L-74,344 L-72,346 L-75,354 L-79,354 L-79,355 L-82,356 L-82,354 L-88,355 L-87,356 L-90,357 L-90,355 L-100,357 L-103,355Z M-128,374 L-129,359 L-123,359 L-120,360 L-120,364 L-117,363 L-111,367 L-115,372 L-115,374 L-112,374 L-110,377 L-109,376 L-104,381 L-103,379 L-105,378 L-103,375 L-101,376 L-103,379 L-100,381 L-106,390 L-108,389 L-107,385 L-121,373 L-128,374Z M-129,359 L-130,352 L-128,349 L-103,347 L-102,354 L-106,362 L-98,368 L-101,372 L-109,366 L-109,364 L-108,362 L-110,360 L-120,360 L-123,359 L-129,359Z M-13,324 L-13,313 L-1,311 L1,322 L26,320 L22,311 L21,312 L11,313 L11,312 L13,312 L13,308 L11,308 L11,307 L21,308 L19,302 L2,303 L2,306 L-26,307 L-24,325 L-13,324Z M306,252 L306,259 L314,259 L314,252 L306,252Z M278,270 L277,278 L274,278 L275,276 L256,275 L255,277 L251,276 L251,273 L252,273 L252,268 L278,270Z M299,230 L300,223 L308,223 L307,231 L299,230Z M298,240 L303,240 L303,252 L297,251 L298,240Z M314,262 L315,278 L311,278 L309,262 L314,262Z M263,224 L264,230 L260,230 L261,235 L256,235 L254,225 L263,224Z M199,-12 L196,-7 L228,13 L231,9 L199,-12Z M-64,259 L-46,257 L-44,254 L-47,242 L-50,241 L-65,250 L-67,254 L-67,257 L-64,259Z M25,247 L22,247 L20,245 L17,236 L19,234 L32,233 L35,236 L36,239 L25,247Z M201,280 L200,268 L211,267 L213,279 L201,280Z M-55,310 L-56,308 L-54,308 L-54,310 L-55,310Z M193,2 L195,3 L196,1 L194,-0 L193,2Z M-38,365 L-42,356 L-37,354 L-34,363 L-38,365Z M-50,314 L-50,311 L-45,311 L-45,307 L-38,306 L-37,312 L-50,314Z M-67,298 L-67,296 L-63,296 L-62,297 L-67,298Z M-53,284 L-51,284 L-52,282 L-50,282 L-50,285 L-53,284Z M-36,356 L-37,354 L-36,354 L-35,355 L-36,356Z M-78,331 L-79,321 L-66,320 L-66,318 L-69,318 L-69,316 L-72,317 L-73,309 L-70,309 L-71,307 L-81,309 L-82,298 L-81,298 L-80,300 L-67,298 L-63,329 L-78,331Z M-48,352 L-47,350 L-41,354 L-41,356 L-48,352Z M-67,292 L-57,291 L-57,295 L-67,296 L-67,292Z M-40,356 L-41,351 L-38,350 L-37,354 L-40,356Z M-123,313 L-124,309 L-122,307 L-115,307 L-114,308 L-112,308 L-112,312 L-123,313Z M-103,364 L-100,357 L-96,356 L-95,360 L-94,361 L-86,360 L-82,364 L-88,374 L-103,364Z M-37,354 L-38,350 L-33,349 L-33,353 L-37,354Z M-57,297 L-57,292 L-50,291 L-51,285 L-40,284 L-39,296 L-57,297Z M-57,289 L-58,284 L-56,284 L-55,289 L-57,289Z M-134,321 L-134,314 L-122,313 L-121,320 L-134,321Z M-80,300 L-84,269 L-59,267 L-58,281 L-68,282 L-67,298 L-80,300Z M-91,285 L-94,280 L-91,280 L-89,285 L-91,285Z M-67,296 L-57,295 L-57,297 L-62,297 L-63,296 L-67,296Z M-10,317 L-9,323 L-7,323 L-7,317 L-10,317Z M213,-106 L233,-107 L232,-119 L212,-118 L213,-106Z M229,-319 L218,-318 L220,-297 L211,-296 L211,-298 L198,-297 L199,-293 L185,-291 L185,-295 L171,-294 L171,-290 L157,-288 L157,-292 L144,-291 L144,-287 L133,-286 L132,-313 L122,-313 L122,-306 L118,-306 L119,-295 L121,-296 L122,-282 L133,-283 L134,-276 L221,-285 L221,-283 L232,-284 L229,-319Z M230,-143 L236,-144 L237,-137 L231,-136 L230,-143Z M67,-220 L99,-223 L97,-242 L65,-239 L67,-220Z M292,-85 L320,-87 L321,-73 L256,-68 L255,-73 L252,-73 L253,-68 L246,-68 L245,-80 L252,-80 L252,-75 L255,-75 L255,-82 L292,-85Z M289,-302 L280,-301 L280,-305 L278,-305 L277,-307 L279,-307 L278,-318 L280,-319 L279,-320 L264,-316 L270,-262 L269,-262 L269,-256 L274,-256 L275,-248 L270,-248 L269,-246 L272,-227 L279,-227 L280,-224 L279,-222 L273,-222 L272,-221 L273,-219 L275,-219 L275,-216 L273,-215 L273,-210 L281,-211 L281,-207 L275,-206 L275,-203 L274,-202 L275,-200 L280,-201 L280,-193 L275,-193 L275,-191 L276,-190 L278,-172 L277,-171 L279,-151 L280,-150 L285,-151 L285,-143 L281,-143 L280,-140 L281,-133 L282,-131 L284,-131 L284,-129 L282,-129 L282,-124 L281,-123 L282,-121 L299,-122 L299,-124 L298,-125 L297,-130 L294,-130 L294,-132 L296,-133 L297,-135 L296,-138 L306,-140 L308,-115 L307,-114 L276,-111 L274,-112 L252,-325 L254,-327 L285,-329 L287,-327 L289,-302Z M240,-263 L235,-262 L239,-224 L243,-224 L244,-217 L223,-215 L222,-224 L227,-224 L225,-239 L222,-239 L222,-244 L225,-245 L223,-261 L218,-260 L217,-268 L239,-270 L240,-263Z M290,-200 L289,-199 L285,-200 L286,-192 L289,-193 L290,-194 L291,-193 L292,-185 L290,-185 L296,-138 L306,-140 L289,-302 L280,-301 L279,-299 L280,-292 L278,-292 L279,-290 L280,-290 L282,-277 L280,-277 L280,-275 L282,-275 L284,-258 L283,-257 L279,-258 L279,-255 L278,-255 L280,-250 L283,-252 L285,-251 L290,-200Z M322,-255 L310,-254 L313,-231 L324,-232 L323,-235 L325,-236 L325,-238 L322,-240 L322,-244 L324,-247 L324,-249 L322,-249 L322,-255Z M320,-278 L307,-277 L310,-254 L322,-255 L321,-259 L323,-260 L322,-261 L320,-263 L319,-264 L321,-264 L319,-268 L321,-270 L321,-272 L320,-272 L320,-278Z M316,-300 L305,-299 L307,-277 L320,-278 L319,-282 L320,-283 L320,-284 L317,-286 L317,-291 L319,-295 L317,-295 L317,-301 L316,-300Z M315,-313 L315,-309 L316,-308 L315,-306 L316,-300 L305,-299 L303,-329 L304,-330 L336,-332 L337,-331 L340,-305 L329,-304 L327,-309 L328,-314 L330,-314 L330,-318 L328,-319 L326,-319 L326,-318 L323,-319 L323,-317 L321,-317 L321,-318 L320,-317 L319,-317 L318,-319 L313,-318 L312,-317 L313,-313 L315,-313Z M245,-147 L240,-204 L224,-203 L230,-146 L245,-147Z M101,-302 L100,-313 L47,-305 L48,-295 L101,-302Z M115,-255 L112,-294 L101,-293 L104,-267 L53,-262 L50,-288 L40,-287 L44,-248 L115,-255Z M21,-227 L41,-229 L41,-232 L43,-232 L43,-239 L41,-239 L40,-241 L19,-239 L21,-227Z M202,-132 L209,-130 L212,-127 L214,-123 L216,-118 L213,-117 L211,-124 L208,-127 L199,-129 L199,-132 L202,-132Z M197,-220 L196,-221 L216,-223 L216,-222 L222,-223 L223,-220 L216,-219 L217,-217 L197,-215 L197,-217 L192,-217 L192,-219 L197,-220Z M240,-144 L245,-145 L246,-138 L241,-137 L240,-144Z M274,-276 L273,-288 L275,-288 L276,-277 L274,-276Z M249,-160 L253,-160 L255,-139 L252,-139 L249,-160Z M140,-266 L140,-269 L149,-270 L150,-267 L140,-266Z M236,-109 L235,-115 L238,-115 L238,-109 L236,-109Z M148,-301 L151,-306 L153,-306 L156,-304 L152,-298 L148,-301Z M279,-232 L278,-240 L281,-240 L282,-232 L279,-232Z M286,-158 L285,-169 L288,-170 L289,-159 L286,-158Z M236,-288 L233,-319 L237,-320 L240,-288 L236,-288Z M252,-164 L249,-164 L247,-178 L250,-178 L252,-164Z M241,-137 L237,-137 L236,-144 L240,-144 L241,-137Z M224,-200 L209,-199 L205,-197 L202,-192 L201,-186 L205,-181 L210,-179 L218,-177 L221,-174 L219,-170 L204,-164 L207,-148 L229,-151 L224,-200Z M190,-243 L191,-233 L216,-235 L215,-245 L190,-243Z M188,-266 L189,-256 L195,-257 L196,-253 L214,-255 L213,-265 L195,-263 L194,-266 L188,-266Z M153,-267 L152,-270 L165,-271 L165,-268 L153,-267Z M148,-258 L138,-258 L140,-233 L150,-234 L148,-258Z M167,-260 L157,-259 L160,-235 L169,-236 L167,-260Z M41,-225 L38,-224 L38,-222 L41,-222 L41,-225Z M40,-229 L43,-208 L46,-208 L43,-232 L41,-232 L41,-229 L40,-229Z M339,-2 L332,-1 L332,-0 L309,2 L307,-12 L338,-14 L339,-2Z M338,-14 L339,-15 L337,-35 L320,-33 L321,-23 L307,-21 L306,-32 L304,-32 L304,-42 L305,-42 L303,-62 L317,-63 L318,-53 L335,-55 L331,-88 L378,-93 L380,-71 L378,-71 L377,-79 L347,-76 L353,-16 L386,-20 L387,-5 L339,-1 L338,-14Z M66,-131 L66,-137 L64,-137 L63,-159 L66,-159 L66,-167 L62,-166 L60,-188 L61,-188 L61,-194 L76,-195 L76,-194 L109,-198 L110,-192 L111,-192 L116,-142 L115,-142 L116,-136 L100,-134 L100,-137 L94,-136 L94,-145 L86,-144 L87,-136 L82,-135 L82,-133 L66,-131Z M128,-143 L127,-143 L125,-165 L129,-165 L129,-169 L129,-172 L124,-172 L122,-194 L124,-194 L123,-200 L180,-205 L180,-200 L194,-201 L192,-223 L165,-220 L165,-224 L156,-223 L156,-219 L144,-217 L143,-221 L134,-221 L134,-217 L122,-215 L118,-250 L105,-248 L108,-213 L75,-210 L75,-209 L59,-208 L56,-244 L42,-243 L46,-208 L33,-207 L32,-211 L23,-210 L24,-206 L11,-205 L10,-209 L1,-208 L2,-204 L-24,-203 L-22,-179 L-9,-180 L-10,-187 L47,-192 L48,-186 L49,-186 L54,-136 L52,-136 L53,-130 L40,-128 L39,-132 L31,-131 L31,-128 L18,-126 L18,-130 L9,-129 L9,-125 L-4,-124 L-4,-130 L-17,-129 L-15,-107 L-2,-108 L-2,-109 L54,-114 L55,-113 L68,-115 L68,-117 L83,-118 L83,-114 L88,-115 L88,-114 L98,-115 L98,-116 L102,-116 L102,-120 L116,-121 L116,-119 L129,-120 L129,-121 L186,-127 L186,-126 L199,-127 L197,-149 L184,-148 L185,-142 L172,-141 L172,-145 L162,-145 L163,-140 L150,-139 L150,-143 L140,-142 L141,-138 L129,-137 L128,-143Z M-242,191 L-240,191 L-240,189 L-238,189 L-238,191 L-236,190 L-237,185 L-235,185 L-236,178 L-229,177 L-229,180 L-226,179 L-224,188 L-222,188 L-224,170 L-223,168 L-224,167 L-245,172 L-246,173 L-242,191Z M-193,161 L-186,201 L-197,201 L-203,163 L-193,161Z M-249,218 L-245,221 L-173,217 L-175,201 L-172,201 L-181,150 L-186,151 L-186,148 L-258,161 L-260,164 L-249,218Z M-218,204 L-219,206 L-218,208 L-217,207 L-211,207 L-211,205 L-209,205 L-209,204 L-205,204 L-205,205 L-202,206 L-201,205 L-203,204 L-206,185 L-214,186 L-215,188 L-217,189 L-217,190 L-221,191 L-218,204Z M-240,207 L-238,206 L-237,207 L-238,208 L-224,208 L-227,192 L-242,195 L-243,196 L-242,205 L-240,204 L-240,207Z M-329,36 L-324,66 L-344,70 L-350,40 L-347,39 L-346,40 L-334,38 L-333,37 L-329,36Z M-355,208 L-355,211 L-352,211 L-352,209 L-350,209 L-350,207 L-342,205 L-340,215 L-322,212 L-323,203 L-315,201 L-313,218 L-305,216 L-305,218 L-302,218 L-301,227 L-311,229 L-312,224 L-318,225 L-317,230 L-342,233 L-344,220 L-350,221 L-348,235 L-392,242 L-401,189 L-390,187 L-387,202 L-378,200 L-373,227 L-355,225 L-355,224 L-357,213 L-360,214 L-361,209 L-355,208Z M-388,197 L-390,187 L-279,166 L-277,168 L-268,220 L-269,222 L-301,227 L-308,182 L-311,182 L-311,184 L-328,187 L-328,189 L-338,191 L-338,189 L-340,189 L-341,192 L-339,204 L-350,207 L-352,205 L-355,190 L-364,192 L-362,202 L-365,203 L-364,206 L-366,207 L-367,205 L-366,204 L-368,204 L-369,193 L-388,197Z M-294,213 L-293,217 L-290,216 L-290,215 L-280,213 L-282,199 L-288,200 L-289,193 L-283,192 L-286,178 L-299,181 L-299,186 L-295,185 L-294,190 L-298,190 L-297,194 L-294,194 L-291,206 L-295,207 L-294,213Z M-215,-175 L-211,-154 L-180,-160 L-182,-169 L-181,-169 L-181,-172 L-183,-172 L-184,-181 L-215,-175Z M-204,-171 L-203,-162 L-201,-160 L-200,-161 L-192,-163 L-190,-162 L-190,-163 L-190,-165 L-191,-165 L-193,-176 L-194,-174 L-202,-173 L-204,-174 L-205,-173 L-204,-171Z M-111,237 L-112,235 L-111,237Z M-113,237 L-114,235 L-113,237Z M-115,237 L-116,235 L-115,237Z M-96,233 L-135,234 L-137,236 L-136,245 L-134,247 L-108,250 L-94,240 L-94,234 L-96,233Z M-147,337 L-143,367 L-144,371 L-173,418 L-176,418 L-183,412 L-191,400 L-226,344 L-239,330 L-241,326 L-241,322 L-225,286 L-220,281 L-156,275 L-153,278 L-147,337Z M-212,342 L-210,345 L-212,346 L-209,349 L-200,340 L-200,338 L-208,333 L-215,339 L-213,343 L-212,342Z M-227,325 L-221,331 L-211,322 L-211,319 L-224,314 L-228,322 L-227,325Z M-181,304 L-177,304 L-175,302 L-176,291 L-177,289 L-179,290 L-179,289 L-182,289 L-181,304Z M-170,301 L-169,301 L-170,302 L-161,301 L-161,293 L-159,294 L-160,289 L-161,291 L-162,287 L-166,287 L-166,296 L-167,297 L-170,298 L-170,301Z M-169,310 L-159,310 L-160,308 L-162,306 L-170,307 L-169,310Z M-187,330 L-179,320 L-175,322 L-178,327 L-172,330 L-168,324 L-169,315 L-181,315 L-181,308 L-183,309 L-182,320 L-183,322 L-187,325 L-190,325 L-195,321 L-196,310 L-198,309 L-198,305 L-200,305 L-201,296 L-199,296 L-200,290 L-205,291 L-205,292 L-213,293 L-215,294 L-219,303 L-198,312 L-202,319 L-199,322 L-201,325 L-201,327 L-194,331 L-193,331 L-190,328 L-187,330Z M-162,330 L-159,333 L-158,331 L-159,324 L-160,323 L-166,324 L-169,330 L-162,330Z M-173,336 L-167,340 L-164,340 L-162,335 L-170,331 L-173,336Z M-165,340 L-163,347 L-156,349 L-156,347 L-157,345 L-156,343 L-157,339 L-165,340Z M-200,364 L-198,364 L-191,354 L-196,349 L-198,349 L-205,355 L-200,364Z M-192,337 L-189,340 L-193,344 L-191,345 L-192,346 L-189,348 L-188,347 L-185,349 L-186,351 L-179,357 L-171,346 L-189,333 L-192,337Z M-170,364 L-166,367 L-165,366 L-162,367 L-162,369 L-158,372 L-155,366 L-156,355 L-162,353 L-170,364Z M-18,201 L-15,208 L-15,210 L-17,212 L-143,216 L-144,215 L-157,146 L-155,144 L-47,124 L-45,125 L-45,128 L-44,129 L-18,201Z M-113,204 L-105,204 L-104,203 L-105,194 L-103,188 L-105,188 L-106,189 L-119,190 L-119,197 L-114,197 L-114,203 L-113,204Z M-55,137 L-69,140 L-68,142 L-63,141 L-62,149 L-64,150 L-63,154 L-52,149 L-50,151 L-48,150 L-53,138 L-55,137Z M-67,149 L-68,143 L-72,144 L-72,140 L-82,141 L-83,143 L-81,144 L-80,149 L-82,149 L-82,151 L-67,149Z M-35,187 L-35,185 L-39,175 L-58,178 L-59,168 L-42,166 L-44,165 L-46,157 L-64,164 L-66,158 L-84,162 L-82,178 L-74,177 L-74,176 L-71,176 L-71,177 L-63,177 L-63,180 L-55,180 L-55,185 L-63,185 L-63,187 L-42,187 L-42,191 L-44,191 L-44,195 L-39,194 L-39,202 L-39,202 L-33,202 L-33,197 L-31,196 L-34,188 L-35,187Z M-49,194 L-50,195 L-56,196 L-57,195 L-58,196 L-57,203 L-56,204 L-49,203 L-48,202 L-49,197 L-48,197 L-49,194Z M-68,189 L-67,188 L-68,186 L-77,187 L-77,189 L-76,189 L-76,201 L-77,202 L-76,203 L-67,203 L-67,201 L-68,201 L-68,189Z M-81,191 L-82,183 L-85,183 L-85,181 L-100,181 L-100,192 L-95,192 L-96,203 L-94,205 L-87,204 L-85,203 L-87,192 L-81,191Z M-95,160 L-97,154 L-90,153 L-92,144 L-102,146 L-102,147 L-104,147 L-102,168 L-98,168 L-99,161 L-95,160Z M-119,148 L-120,150 L-119,159 L-123,160 L-122,162 L-108,160 L-111,151 L-109,151 L-109,148 L-111,147 L-119,148Z M-120,179 L-119,181 L-100,181 L-102,169 L-120,173 L-121,171 L-139,174 L-140,176 L-139,183 L-138,185 L-129,183 L-128,188 L-123,187 L-125,187 L-125,185 L-119,184 L-119,182 L-124,183 L-125,180 L-120,179Z M-142,152 L-144,152 L-145,153 L-141,164 L-123,159 L-125,149 L-142,152Z M-52,107 L-53,109 L-158,129 L-160,127 L-173,56 L-171,54 L-79,37 L-77,39 L-52,107Z M-145,59 L-161,62 L-163,61 L-163,62 L-162,64 L-160,72 L-161,72 L-161,74 L-143,70 L-141,68 L-143,58 L-145,58 L-145,59Z M-156,95 L-154,96 L-148,95 L-147,96 L-145,94 L-147,82 L-149,81 L-150,82 L-157,84 L-157,85 L-156,95Z M-150,117 L-143,115 L-145,103 L-154,104 L-152,117 L-150,118 L-150,117Z M-137,72 L-138,73 L-138,75 L-140,75 L-133,113 L-128,113 L-131,92 L-134,93 L-135,89 L-132,88 L-132,91 L-127,91 L-128,89 L-125,89 L-125,84 L-128,85 L-129,80 L-134,81 L-135,71 L-137,72Z M-124,111 L-123,112 L-117,109 L-117,110 L-112,110 L-112,109 L-110,108 L-110,109 L-106,109 L-105,108 L-106,106 L-108,106 L-110,92 L-125,95 L-123,109 L-124,109 L-124,111Z M-98,97 L-97,105 L-98,105 L-97,108 L-96,106 L-85,104 L-85,106 L-67,102 L-65,103 L-64,101 L-66,100 L-69,92 L-71,91 L-86,95 L-87,91 L-90,92 L-89,94 L-98,96 L-99,95 L-100,97 L-98,97Z M-98,85 L-98,83 L-96,83 L-95,85 L-91,84 L-91,87 L-76,82 L-74,82 L-74,81 L-76,77 L-76,75 L-78,69 L-80,69 L-80,70 L-90,74 L-93,66 L-92,65 L-92,63 L-83,60 L-82,59 L-85,49 L-103,53 L-102,60 L-108,61 L-109,55 L-115,56 L-115,54 L-123,54 L-124,56 L-123,58 L-122,58 L-120,67 L-113,66 L-113,68 L-110,67 L-109,73 L-102,71 L-103,64 L-108,65 L-109,63 L-101,61 L-99,73 L-112,75 L-110,81 L-114,82 L-113,87 L-110,86 L-110,87 L-98,85Z M-134,62 L-133,66 L-136,67 L-135,70 L-129,69 L-130,59 L-129,59 L-129,56 L-138,58 L-137,62 L-134,62Z M-187,-19 L-187,-20 L-180,-31 L-109,-43 L-106,-42 L-83,20 L-85,23 L-175,39 L-176,37 L-187,-19Z M-155,21 L-153,20 L-154,13 L-156,13 L-155,21Z M-127,-30 L-126,-25 L-130,-24 L-130,-29 L-131,-29 L-151,-26 L-152,-25 L-150,-20 L-155,-20 L-153,-8 L-146,-9 L-145,-8 L-144,-2 L-151,-0 L-150,6 L-132,2 L-130,11 L-144,14 L-142,24 L-124,19 L-125,12 L-118,10 L-118,16 L-118,18 L-118,18 L-96,15 L-96,14 L-104,-5 L-113,-2 L-114,-7 L-123,-6 L-125,-21 L-121,-22 L-119,-13 L-119,-10 L-118,-9 L-117,-12 L-107,-15 L-113,-32 L-113,-34 L-115,-34 L-115,-32 L-127,-30Z M-162,-22 L-173,-20 L-176,-17 L-175,-11 L-168,-11 L-167,-7 L-165,-7 L-166,-14 L-162,-15 L-160,-8 L-158,-9 L-160,-21 L-162,-22Z M-290,-9 L-288,-11 L-221,-23 L-211,-16 L-201,42 L-202,44 L-232,50 L-233,46 L-238,48 L-237,50 L-244,52 L-245,49 L-249,49 L-250,49 L-249,53 L-276,57 L-278,56 L-290,-9Z M-225,38 L-224,39 L-217,37 L-214,37 L-213,36 L-214,26 L-227,28 L-225,38Z M-238,12 L-240,13 L-240,9 L-247,11 L-246,14 L-249,14 L-249,11 L-256,12 L-255,15 L-258,16 L-258,13 L-261,13 L-262,9 L-275,11 L-275,17 L-273,18 L-261,15 L-260,24 L-273,27 L-269,44 L-268,45 L-264,43 L-263,44 L-256,43 L-257,36 L-265,38 L-266,35 L-258,33 L-258,32 L-266,34 L-267,31 L-252,29 L-254,18 L-234,14 L-233,17 L-239,18 L-236,38 L-230,37 L-232,24 L-229,23 L-230,20 L-216,17 L-216,15 L-217,15 L-218,11 L-217,8 L-218,6 L-232,9 L-233,3 L-235,4 L-235,8 L-238,9 L-238,12Z M-234,-10 L-233,-10 L-231,-0 L-221,-2 L-220,-3 L-221,-12 L-223,-13 L-233,-11 L-234,-10Z M-238,-10 L-265,-5 L-263,4 L-236,-1 L-238,-10Z M-231,-124 L-231,-119 L-235,-117 L-293,-106 L-295,-108 L-296,-225 L-251,-237 L-231,-124Z M-285,-138 L-284,-128 L-285,-128 L-285,-119 L-286,-118 L-285,-117 L-283,-118 L-266,-121 L-265,-122 L-267,-125 L-262,-126 L-263,-128 L-273,-128 L-273,-138 L-285,-138Z M-273,-138 L-269,-138 L-269,-133 L-264,-133 L-263,-129 L-258,-130 L-257,-125 L-252,-126 L-251,-124 L-243,-126 L-242,-127 L-244,-136 L-259,-134 L-259,-139 L-263,-138 L-264,-142 L-267,-143 L-267,-145 L-265,-147 L-266,-155 L-269,-156 L-269,-158 L-267,-160 L-270,-173 L-283,-172 L-284,-171 L-284,-162 L-283,-161 L-277,-161 L-277,-158 L-274,-158 L-274,-154 L-282,-154 L-282,-157 L-284,-157 L-285,-147 L-283,-147 L-283,-147 L-273,-148 L-273,-138Z M-256,-146 L-254,-140 L-247,-141 L-247,-143 L-245,-144 L-247,-151 L-248,-149 L-254,-148 L-256,-149 L-256,-146Z M-266,-175 L-265,-174 L-264,-165 L-259,-166 L-258,-157 L-250,-158 L-248,-157 L-249,-164 L-251,-164 L-252,-167 L-249,-167 L-251,-177 L-252,-178 L-253,-177 L-264,-175 L-266,-176 L-266,-175Z M-275,-201 L-274,-195 L-284,-193 L-283,-192 L-284,-189 L-284,-182 L-256,-187 L-253,-187 L-255,-200 L-272,-196 L-273,-201 L-265,-203 L-266,-207 L-258,-210 L-260,-221 L-262,-222 L-273,-219 L-274,-215 L-276,-216 L-274,-218 L-275,-219 L-281,-217 L-281,-215 L-284,-215 L-285,-204 L-284,-203 L-277,-205 L-275,-201Z M-229,-103 L-227,-101 L-219,-58 L-226,-47 L-292,-35 L-294,-37 L-295,-88 L-293,-90 L-229,-103Z M-285,-51 L-285,-47 L-283,-46 L-283,-48 L-272,-51 L-264,-51 L-262,-49 L-265,-68 L-272,-67 L-271,-62 L-281,-62 L-282,-63 L-283,-63 L-284,-51 L-285,-51Z M-233,-82 L-235,-90 L-236,-91 L-244,-89 L-245,-88 L-243,-79 L-235,-80 L-233,-82Z M-272,-71 L-265,-72 L-265,-68 L-261,-69 L-262,-73 L-257,-74 L-256,-70 L-255,-70 L-252,-51 L-250,-53 L-246,-54 L-247,-58 L-249,-57 L-250,-66 L-248,-66 L-249,-71 L-247,-72 L-245,-64 L-242,-65 L-241,-58 L-242,-56 L-230,-58 L-232,-69 L-233,-70 L-234,-68 L-241,-67 L-242,-73 L-244,-72 L-245,-78 L-251,-77 L-253,-86 L-255,-87 L-259,-86 L-257,-76 L-263,-75 L-264,-85 L-285,-81 L-285,-72 L-284,-71 L-283,-72 L-272,-73 L-272,-71Z M-325,305 L-320,298 L-323,295 L-325,290 L-334,291 L-332,296 L-329,295 L-327,298 L-330,300 L-325,305Z M-346,293 L-354,286 L-324,282 L-316,285 L-307,292 L-320,312 L-346,293Z M2,261 L3,263 L5,263 L20,302 L2,303 L2,306 L-26,307 L-30,267 L-28,267 L-28,264 L2,261Z M-10,276 L3,275 L4,278 L-1,279 L5,295 L-10,297 L-11,294 L-13,294 L-15,282 L-13,282 L-14,275 L-11,274 L-10,276Z M-74,370 L-66,358 L-48,372 L-51,374 L-53,373 L-60,381 L-74,370Z"/>
-<path class="walk" d="M-91,247 L-154,205 L-165,136 L-176,109 L-196,0 L-195,-20 L-198,-34 L-90,-56 L-53,-67 L73,-67 L74,-107 L52,-123 L46,-129"/>
+<path class="walk" d="M-91,247 L-154,205 L-165,136 L-176,109 L-196,0 L-195,-20 L-198,-34 L-90,-56 L-53,-67 L73,-67 L75,-117"/>
 <text class="lbl-road" x="-124" y="115" text-anchor="middle" transform="rotate(69.3 -124 115)">Frederiksborggade</text>
 <text class="lbl-road" x="-110" y="-61" text-anchor="middle" transform="rotate(-7.0 -110 -61)">Nørre Farimagsgade</text>
 <text class="lbl-road" dy="-9"><textPath href="#kp-of" startOffset="42%">Øster Farimagsgade</textPath></text>
@@ -213,10 +213,9 @@ Nørreport is the nearest station, about ten minutes on foot. Leave the station 
 <text class="lbl-road" dy="16"><textPath href="#kp-nv" startOffset="35%">Nørre Voldgade</textPath></text>
 <circle class="stn" cx="-91" cy="247" r="9"/>
 <text class="lbl-stop halo" x="-75" y="254">Nørreport <tspan class="sub">S-train and metro</tspan></text>
-<circle class="pin" cx="46" cy="-129" r="7"/>
-<text class="lbl-here halo" x="28" y="-151" text-anchor="end">Building 7 door</text>
-<text class="lbl-muted halo" x="28" y="-131" text-anchor="end">then up to 7.2.48</text>
-<circle class="stop" cx="75" cy="-117" r="6"/>
+<circle class="pin" cx="75" cy="-117" r="8"/>
+<text class="lbl-here halo" x="57" y="-133" text-anchor="end">Enter here</text>
+<text class="lbl-muted halo" x="57" y="-113" text-anchor="end">Building 7 door, then up to 7.2.48</text>
 <text class="lbl-muted halo" x="240" y="-173" text-anchor="end">the dome: Building 1, SODAS</text>
 <text class="lbl-area halo" x="174" y="48" text-anchor="middle">Botanical Garden</text>
 <text class="lbl-area halo" x="-55" y="-217" text-anchor="middle">CSS (Kommunehospitalet)</text>
